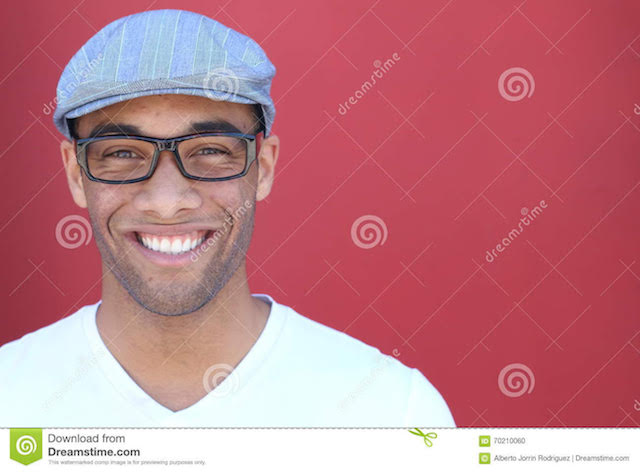
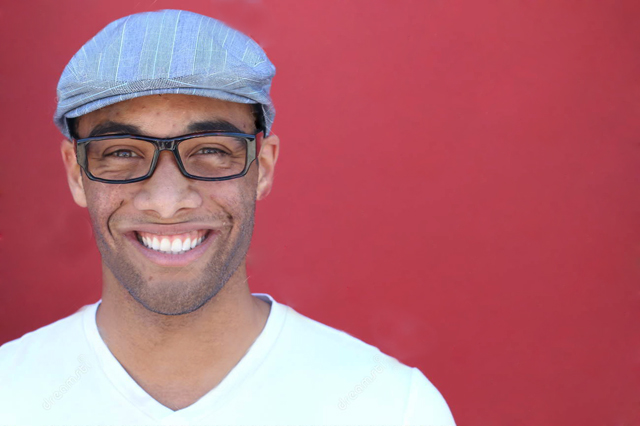
style edit page and bring in req pictures

diff --git a/app/assets/stylesheets/users.scss b/app/assets/stylesheets/users.scss
@@ -75,7 +75,7 @@ body {
   }
 }
 .user_responsive-input {
-  height: 50px;
+  height: 45px;
   width: 400px;
   padding: 10px 16px;
   font-size: 18px;
@@ -83,11 +83,12 @@ body {
   font-family: 'Muli', sans-serif;
   outline: none;
   border-width:thin;
-
+  color: orange;
+  border-style: solid;
 
   @media screen and (max-width: 1440px) {
     // Small input box
-    height: 50px;
+    height: 45px;
     width: 315px;
     padding: 5px 10px;
     font-size: 12px;
@@ -100,7 +101,7 @@ body {
 
 .info_responsive-input {
   // Large input box
-  height: 50px;
+  height: 45px;
   width: 400px;
   padding: 10px 16px;
   font-size: 18px;
@@ -108,11 +109,12 @@ body {
   font-family: 'Muli', sans-serif;
   outline: none;
   border-width:thin;
-
+  color: orange;
+  border-style: solid;
 
   @media screen and (max-width: 1440px) {
     // Small input box
-    height: 50px;
+    height: 45px;
     width: 315px;
     padding: 5px 10px;
     font-size: 12px;
@@ -124,7 +126,7 @@ body {
 
 .add_responsive-input {
   // Large input box
-  height: 50px;
+  height: 45px;
   width: 400px;
   padding: 10px 16px;
   font-size: 18px;
@@ -132,11 +134,12 @@ body {
   font-family: 'Muli', sans-serif;
   outline: none;
   border-width:thin;
-
+  color: orange;
+  border-style: solid;
 
   @media screen and (max-width: 1440px) {
     // Small input box
-    height: 50px;
+    height: 45px;
     width: 315px;
     padding: 5px 10px;
     font-size: 12px;
@@ -353,9 +356,9 @@ body {
 
 .sen_img_app {
   margin: 0px 15px;
-  margin-top: 10px;
+  margin-top: 60px;
   @media screen and (max-width: 640px){
-    margin: 0px;
+    margin: 20px;
   }
 }
 

diff --git a/app/assets/stylesheets/welcome.scss b/app/assets/stylesheets/welcome.scss
@@ -196,7 +196,7 @@
 }
 
 .require {
-  margin-top: 40px;
+  margin: 60px 0px;;
   background-color: #f5f5f5;
   // padding: 0px 5px;
   @media screen and (max-width: 425px){
@@ -205,7 +205,7 @@
 }
 
 .require .col-lg-6 {
-  box-shadow: 0px 0px 1px rgba(0,0,0,0.1);
+  // box-shadow: 0px 0px 1px rgba(0,0,0,0.1);
 }
 .require_div1{
   font-family: 'Open Sans Condensed', sans-serif;
@@ -262,11 +262,11 @@
 }
 
 .why_this_img {
-  box-shadow: 0px 0px 1px rgba(0,0,0,0.1);
+  // box-shadow: 0px 0px 1px rgba(0,0,0,0.1);
   background-repeat: no-repeat;
   background-size:cover;
   background-postion: center;
-  background-image:url(https://www.photocase.com/photos/2033442-teenager-girls-having-fun-taking-walk-on-the-beach-photocase-stock-photo-large.jpeg);
+  background-image:url(/assets/requirements_guy2.jpg);
   width: 100%;
   height: 400px;
   @media screen and (max-width: 425px){
@@ -276,7 +276,7 @@
 
 .why_this_div {
  // padding-left: 50px;
- box-shadow: 0px 0px 1px rgba(0,0,0,0.1);
+ // box-shadow: 0px 0px 1px rgba(0,0,0,0.1);
  background-color:#f5f5f5;
  @media screen and (max-width: 768px){
     // padding-left:20px;

diff --git a/app/controllers/welcome_controller.rb b/app/controllers/welcome_controller.rb
@@ -1,6 +1,6 @@
 class WelcomeController < ApplicationController
   def index
-    @arr = ["/assets/resize.jpg","/assets/companion2.jpg", "/assets/companion4.jpg"];
+    @arr = ["/assets/companion2.jpg","/assets/companion3.jpg", "/assets/companion1.jpg"];
   end
 
   def be_a_comp
